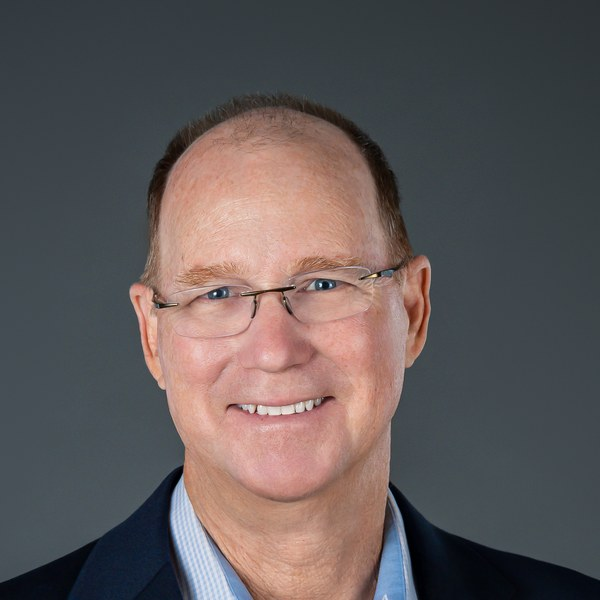
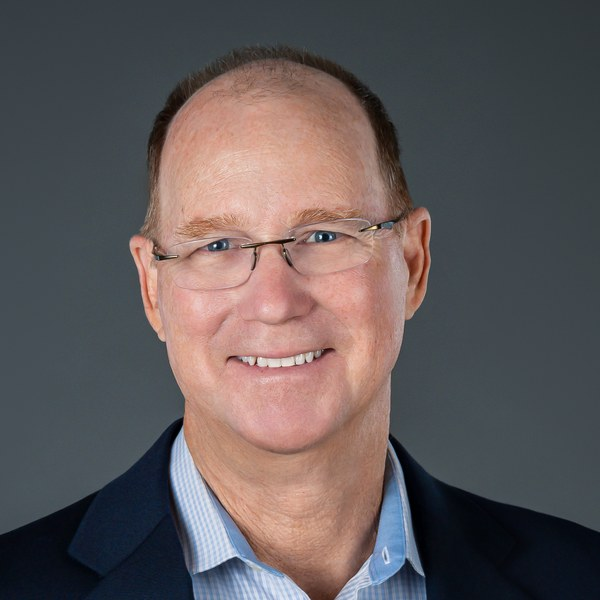
newsletter

diff --git a/email-templates/logbook.html b/email-templates/logbook.html
@@ -403,11 +403,11 @@
           <td bgcolor="#f4f6f8" style="background-color:#f4f6f8; padding:32px;" class="stack-pad">
             <table role="presentation" border="0" cellpadding="0" cellspacing="0" width="100%">
               <tr>
-                <!-- Headshot column -->
-                <td class="stack" valign="top" width="200" style="width:200px; padding:0 20px 0 0;" align="center">
+                <!-- Headshot column - valign middle so the circle vertically centers between the right column's heading and button -->
+                <td class="stack" valign="middle" width="220" style="width:220px; padding:0 20px 0 0;" align="center">
                   <img src="https://haleyyachts.com/images/people/clark-haley-headshot-square.jpg"
-                       width="180" height="180" alt="Clark Haley"
-                       style="display:block; width:180px; height:180px; max-width:180px; border:0; outline:none; border-radius:90px;" />
+                       width="200" height="200" alt="Clark Haley"
+                       style="display:block; width:200px; height:200px; max-width:200px; border:0; outline:none; border-radius:100px;" />
                 </td>
                 <!-- Copy column -->
                 <td class="stack" valign="top" style="padding:8px 0 0 0;">
